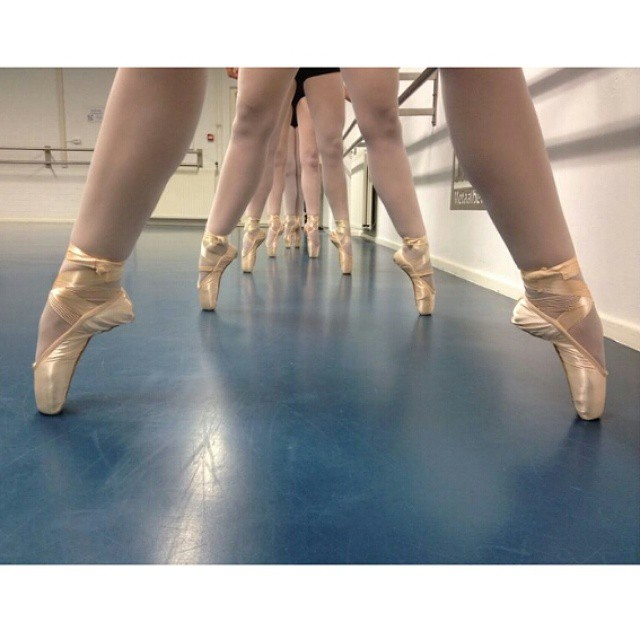
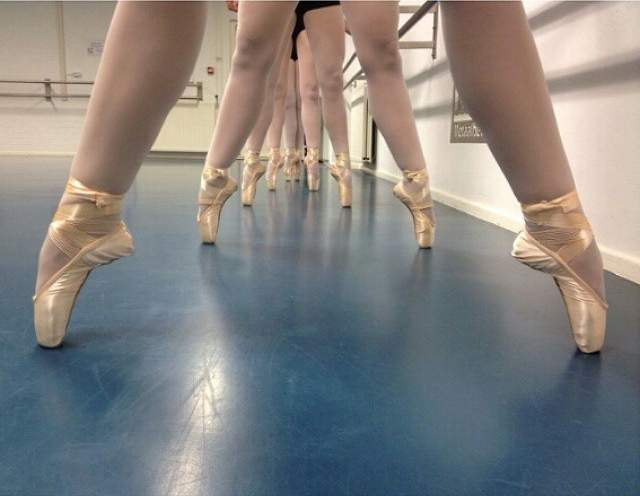
rebuild pages at b430f1a at Tue Aug 14 20:18:24 UTC 2018

diff --git a/ballet.html b/ballet.html
@@ -44,7 +44,7 @@ Voor kinderen vanaf 6 jaar t/m 8 (groep 3 t/m groep 5 basisschool) is er bij Bab
 <p>In deze les wordt er kennis gemaakt met de basis van de klassieke ballettechniek.
 Technische oefeningen aan de barre en grondoefeningen worden afgewisseld met dansante combinaties waarin het dansante gevoel en het dansplezier naar voren komt. Ook wordt er veel aandacht besteed aan de juiste lichaamshouding.</p>
 </section><section><h1 id="spitzen-lessen">Spitzen Lessen</h1>
-<p><img src="resources/image/1461107_750698151664829_2383227879536387018_n.jpg" alt="Dames op spitzen">
+<p><img src="resources/image/algemeen/spitzen.jpg" alt="Dames op spitzen">
 Het dansen op spitzen is zowel technisch als gevoelsmatig de ultieme uitdaging voor de danseres en geeft het &quot;echte klassieke ballet&quot; gevoel. De slagroom op de taart zou ik zeggen. Leerlingen uit de hogere niveaus kunnen, in overleg, aansluitend op hun normale les een kwartier Spitzen techniek volgen. Het volgen van de Spitzen lessen is in principe voor alle leerlingen mogelijk mits hun voeten zijn uitgegroeid, zij voldoende ballettechniek en kracht hebben ontwikkeld. Bij een afwijking in heup /rug of voeten moet er even overleg worden gepleegd met de docent en een fysio. De aanschaf van Spitzen gaat in overleg en is voor eigen rekening. Voor het extra spitzenkwartier wordt een extra bedrag bovenop het inschrijfgeld gerekend.</p>
 </section><section><h1 id="klassiek-ballet-volwassen">Klassiek Ballet Volwassen</h1>
 <p>Deze groep volwassenen heeft minimaal 2 jaar balletervaring. mensen die graag willen blijven trainen, de basistechniek is vereist. . Er is veel aandacht voor de basistechniek, lichaamshouding en coördinatie. Doormiddel van dansante combinaties worden techniek, expressie en dansplezier samengevoegd.
